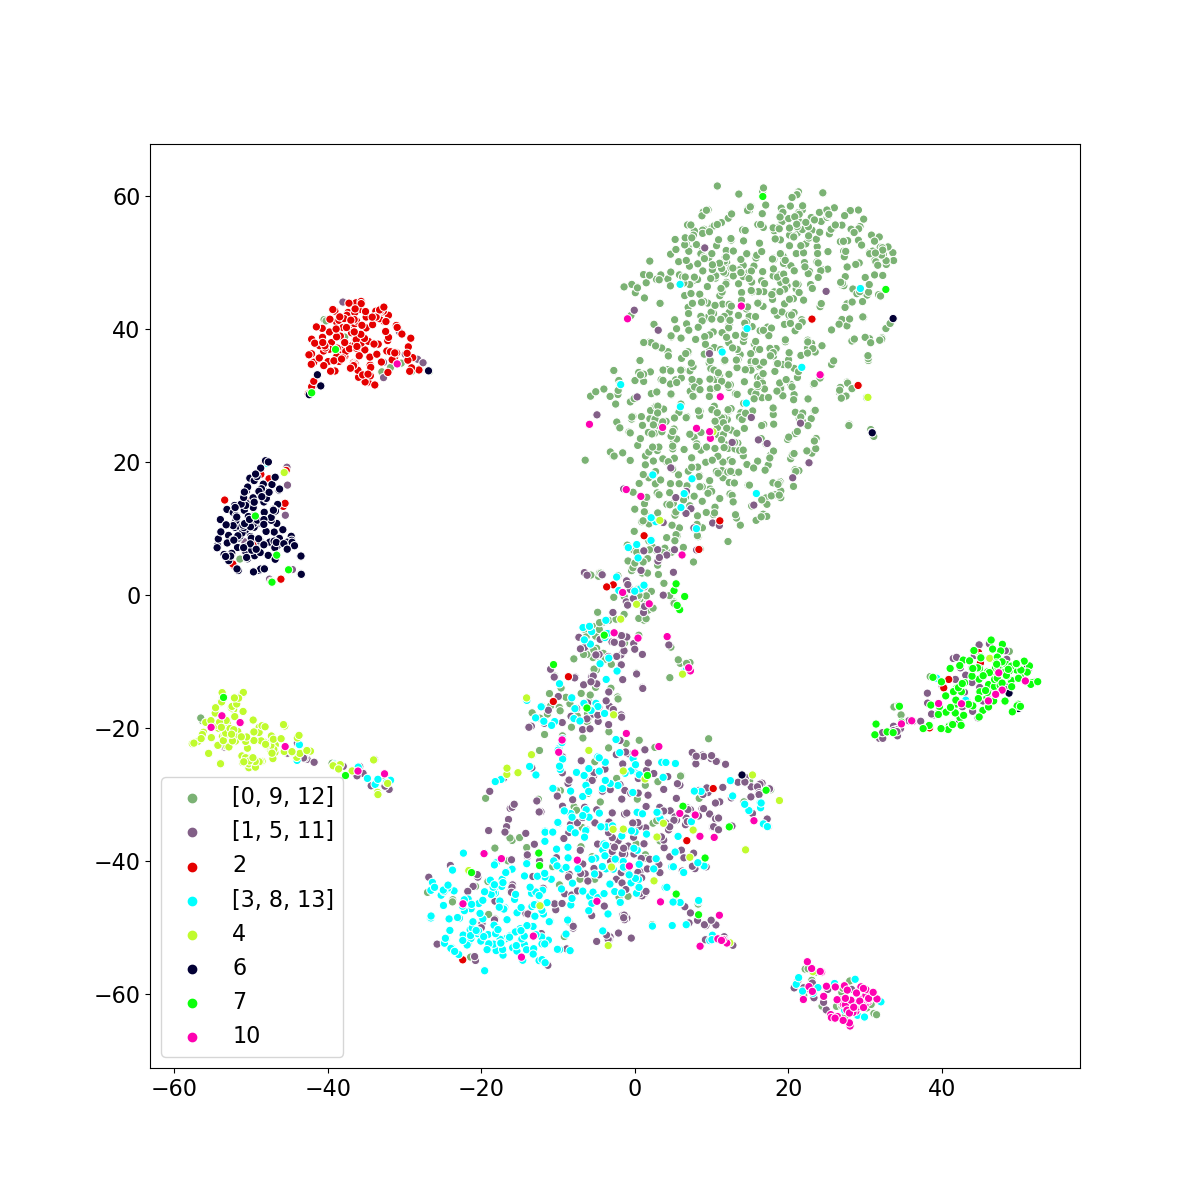
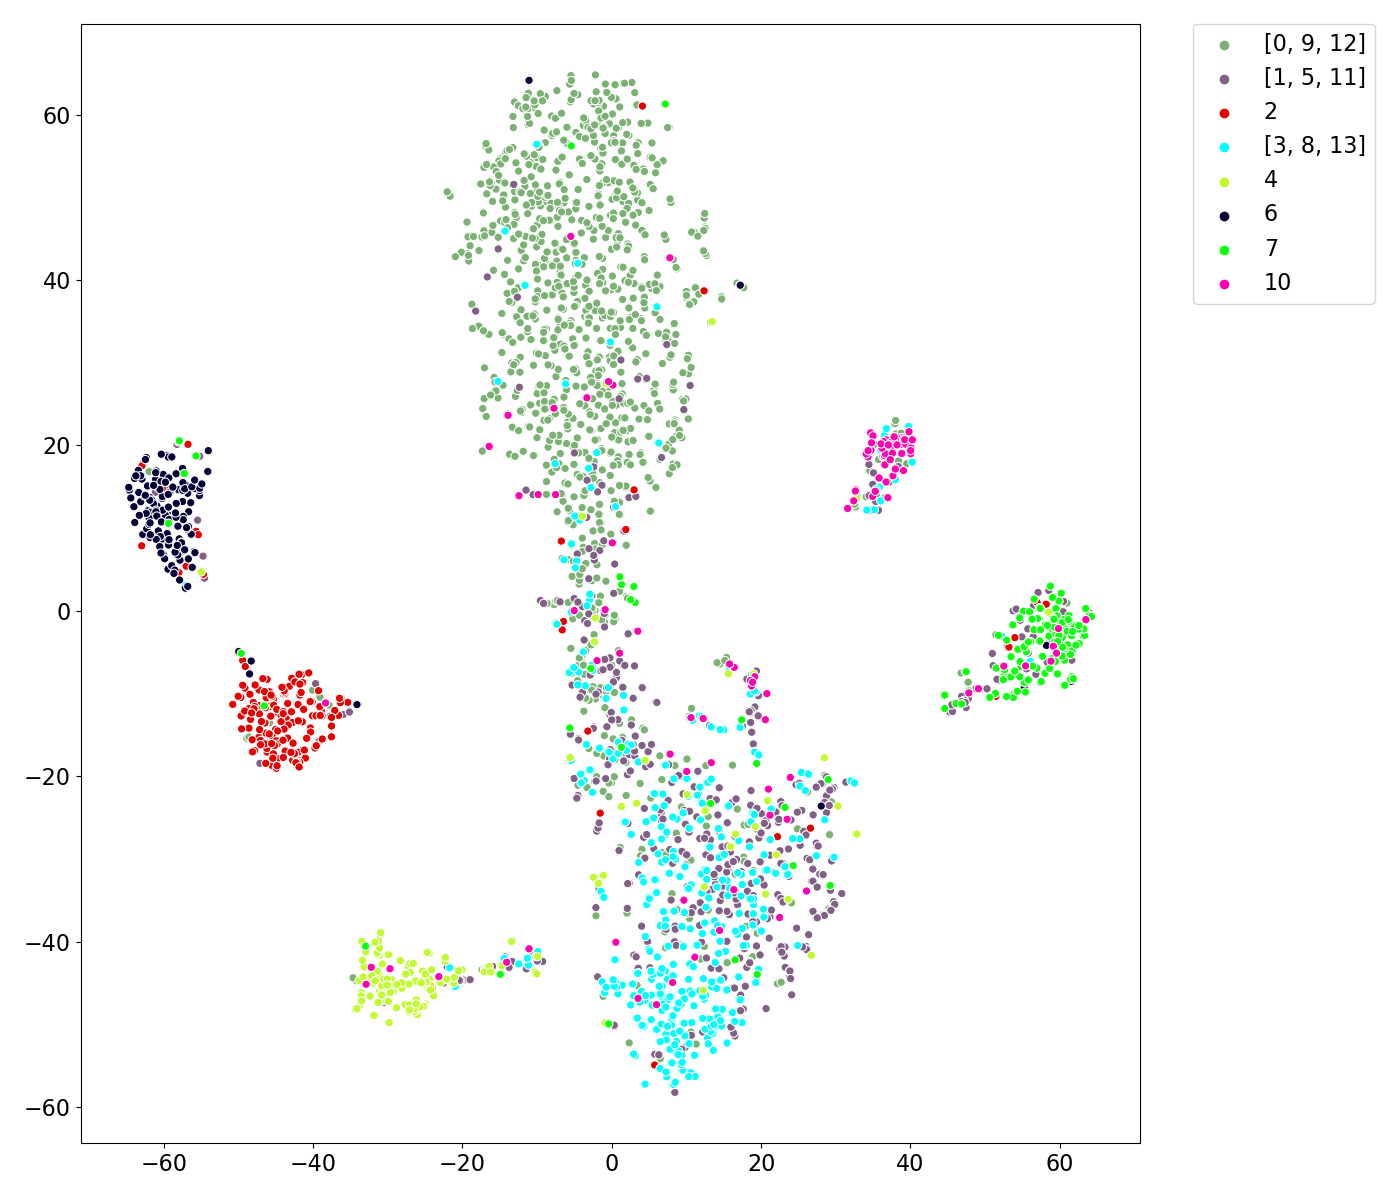
run 50

diff --git a/visualize_embeddings.py b/visualize_embeddings.py
@@ -50,7 +50,7 @@ def visualize_embeddings(embeddings, labels, cluster_ids, image_path, colors):
     label_list = list(np.hstack(label_list))
     cluster_id_list = [cluster_ids[x] for x in label_list]
 
-    fig = plt.figure(figsize=(12, 12))
+    fig = plt.figure(figsize=(14, 12))
 
     #cust_palette = sns.color_palette("RdBu_r", len(list(set(cluster_id_list))))
     cust_palette = sns.xkcd_palette(colors)
@@ -60,6 +60,8 @@ def visualize_embeddings(embeddings, labels, cluster_ids, image_path, colors):
                          markers='.', 
                          palette= cust_palette
                          )
+    plt.legend(bbox_to_anchor=(1.05, 1), loc=2, borderaxespad=0.)
+    plt.tight_layout()
     plt.savefig(image_path)
 
 

diff --git a/train.py b/train.py
@@ -158,7 +158,8 @@ if __name__=="__main__":
     #print('max number of data of each class:', cluster_th)
     
     #merge_info = [[0, 9, 12], [1, 5, 11], 2, [3, 8, 13], 4, 6, 7, 10, 14, 15, 16, 17, 18]
-    merge_info = [[0, 9, 12], [1, 5, 11], 2, [3, 8, 13], 4, 6, 7, 10]
+    #merge_info = [[0, 9, 12], [1, 5, 11], 2, [3, 8, 13], 4, 6, 7, 10]
+    merge_info = [[0, 9, 12], [1, 5, 11], 2, [3, 8], 4, 6, 7, 10, 13]
     print('how to merge clusters: ', merge_info)
 
     subclustering = False # whether to further subcluster data according to subcluster_dict

diff --git a/k_nearest_neighbor.py b/k_nearest_neighbor.py
@@ -50,7 +50,7 @@ if __name__=="__main__":
     test_embedding = np.load(test_embedding_path)
     test_label = np.load(test_label_path)
 
-    knn = KNeighborsClassifier(n_neighbors=5, n_jobs=4)
+    knn = KNeighborsClassifier(n_neighbors=7, n_jobs=4)
     knn.fit(train_embedding, train_label)
 
     train_prediction = knn.predict(train_embedding)
